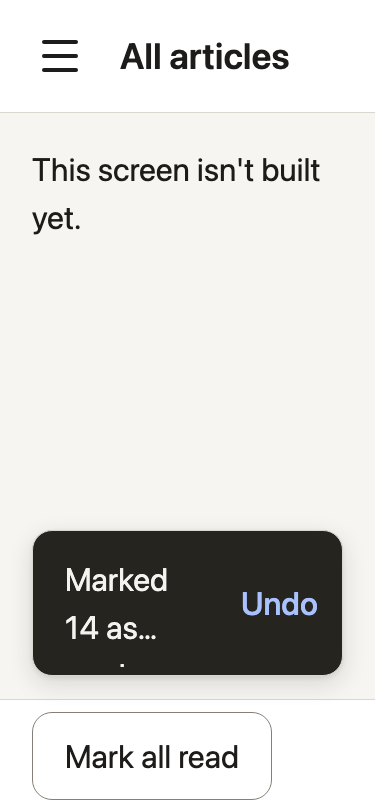
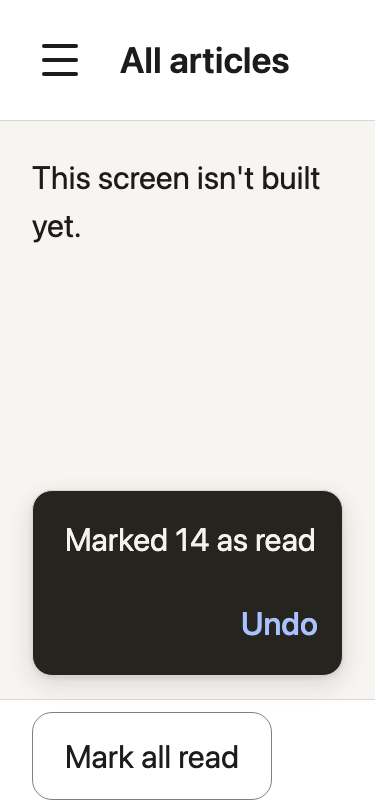
TID-006: Add before/after screenshots and Fixes section to the UX review

diff --git a/docs/ux/reviews/tid-006.md b/docs/ux/reviews/tid-006.md
@@ -99,3 +99,15 @@ Add these four to the "Header title per route" table in app-shell.md as the load
 
 - Fixes M1, M2, M3 are small, shell-only changes; none touches the API or data.
 - Doc updates UX will make once the PM decides: FLOWS 1.6 (article parent, Add/Import Back rule once the PM decides), app-shell.md section 6 (in-flow bar), section 10 (placeholder titles).
+
+## Fixes
+
+Branch `tid-006-ux-fixes` (from `tid-006-app-shell`). Regression tests: `e2e/specs/tid-006-large-text.spec.ts` (each fails on the pre-fix code). Before images are in `docs/ux/reviews/tid-006/before-fix/`; the images next to them are the after images.
+
+- **M1 (`AppShell.tsx`).** The `h1` is now `line-clamp-2 break-words` instead of `truncate`, and the header row has `py-2`. At 200% text "Import from OPML" wraps to two lines and the header grows; at normal size nothing changes. After: `zoom200-subpage-light.png`, `zoom200-subpage-dark.png`.
+- **M2 (`FeedNav.tsx`).** The Manage/Settings row is `flex flex-wrap` and each link has `min-w-fit flex-1`. At 200% text they stack as two full-width rows inside the drawer (both 44 px or more high); at normal size they stay side by side. After: `zoom200-drawer-light.png`, `zoom200-drawer-dark.png`.
+- **M3 (`Toasts.tsx`).** The card is `flex flex-wrap items-center gap-x-2`. Padding moved off the clamped `p` onto a wrapper `div.min-w-[12ch].flex-1.py-2`, so nothing leaks under the clamp, and the Undo/Dismiss button has `ml-auto`. At 200% text "Marked 14 as read" shows in full and Undo drops to its own row, right aligned. At normal size the message and the button stay on one row (checked with `toast-undo-bar-*` and `toast-error-bar-*`). After: `toast-undo-bar-zoom200-light.png`, `toast-undo-bar-zoom200-dark.png`.
+- **m1 (`AppShell.tsx`).** The header's inner row has `lg:mx-auto lg:max-w-2xl`. `max-w-2xl` (42 rem) is the width of the content column in `main`, and the header and `main` have identical side padding, so the title's left edge equals the column's (448 px at 1280). The header background still spans the full main area. Below 1024 px nothing changes. After: `all-d-light.png`, `all-d-dark.png` (before: `before-fix/all-d-*.png`).
+- **m2 (`slots.tsx`).** `BottomBar` now sets `--bottom-offset` to the bar's measured height (minus the bar's own safe-area padding, which the toast formula adds itself) using a `ResizeObserver`, and removes the property and disconnects on unmount. The gap is exactly 12 px, and it follows the bar if it grows.
+
+Not re-captured: `zoom200-offline-*` were re-taken because the header changed. `tid-006-measurements.json` and the other screenshots are the original review's record and were not regenerated.
